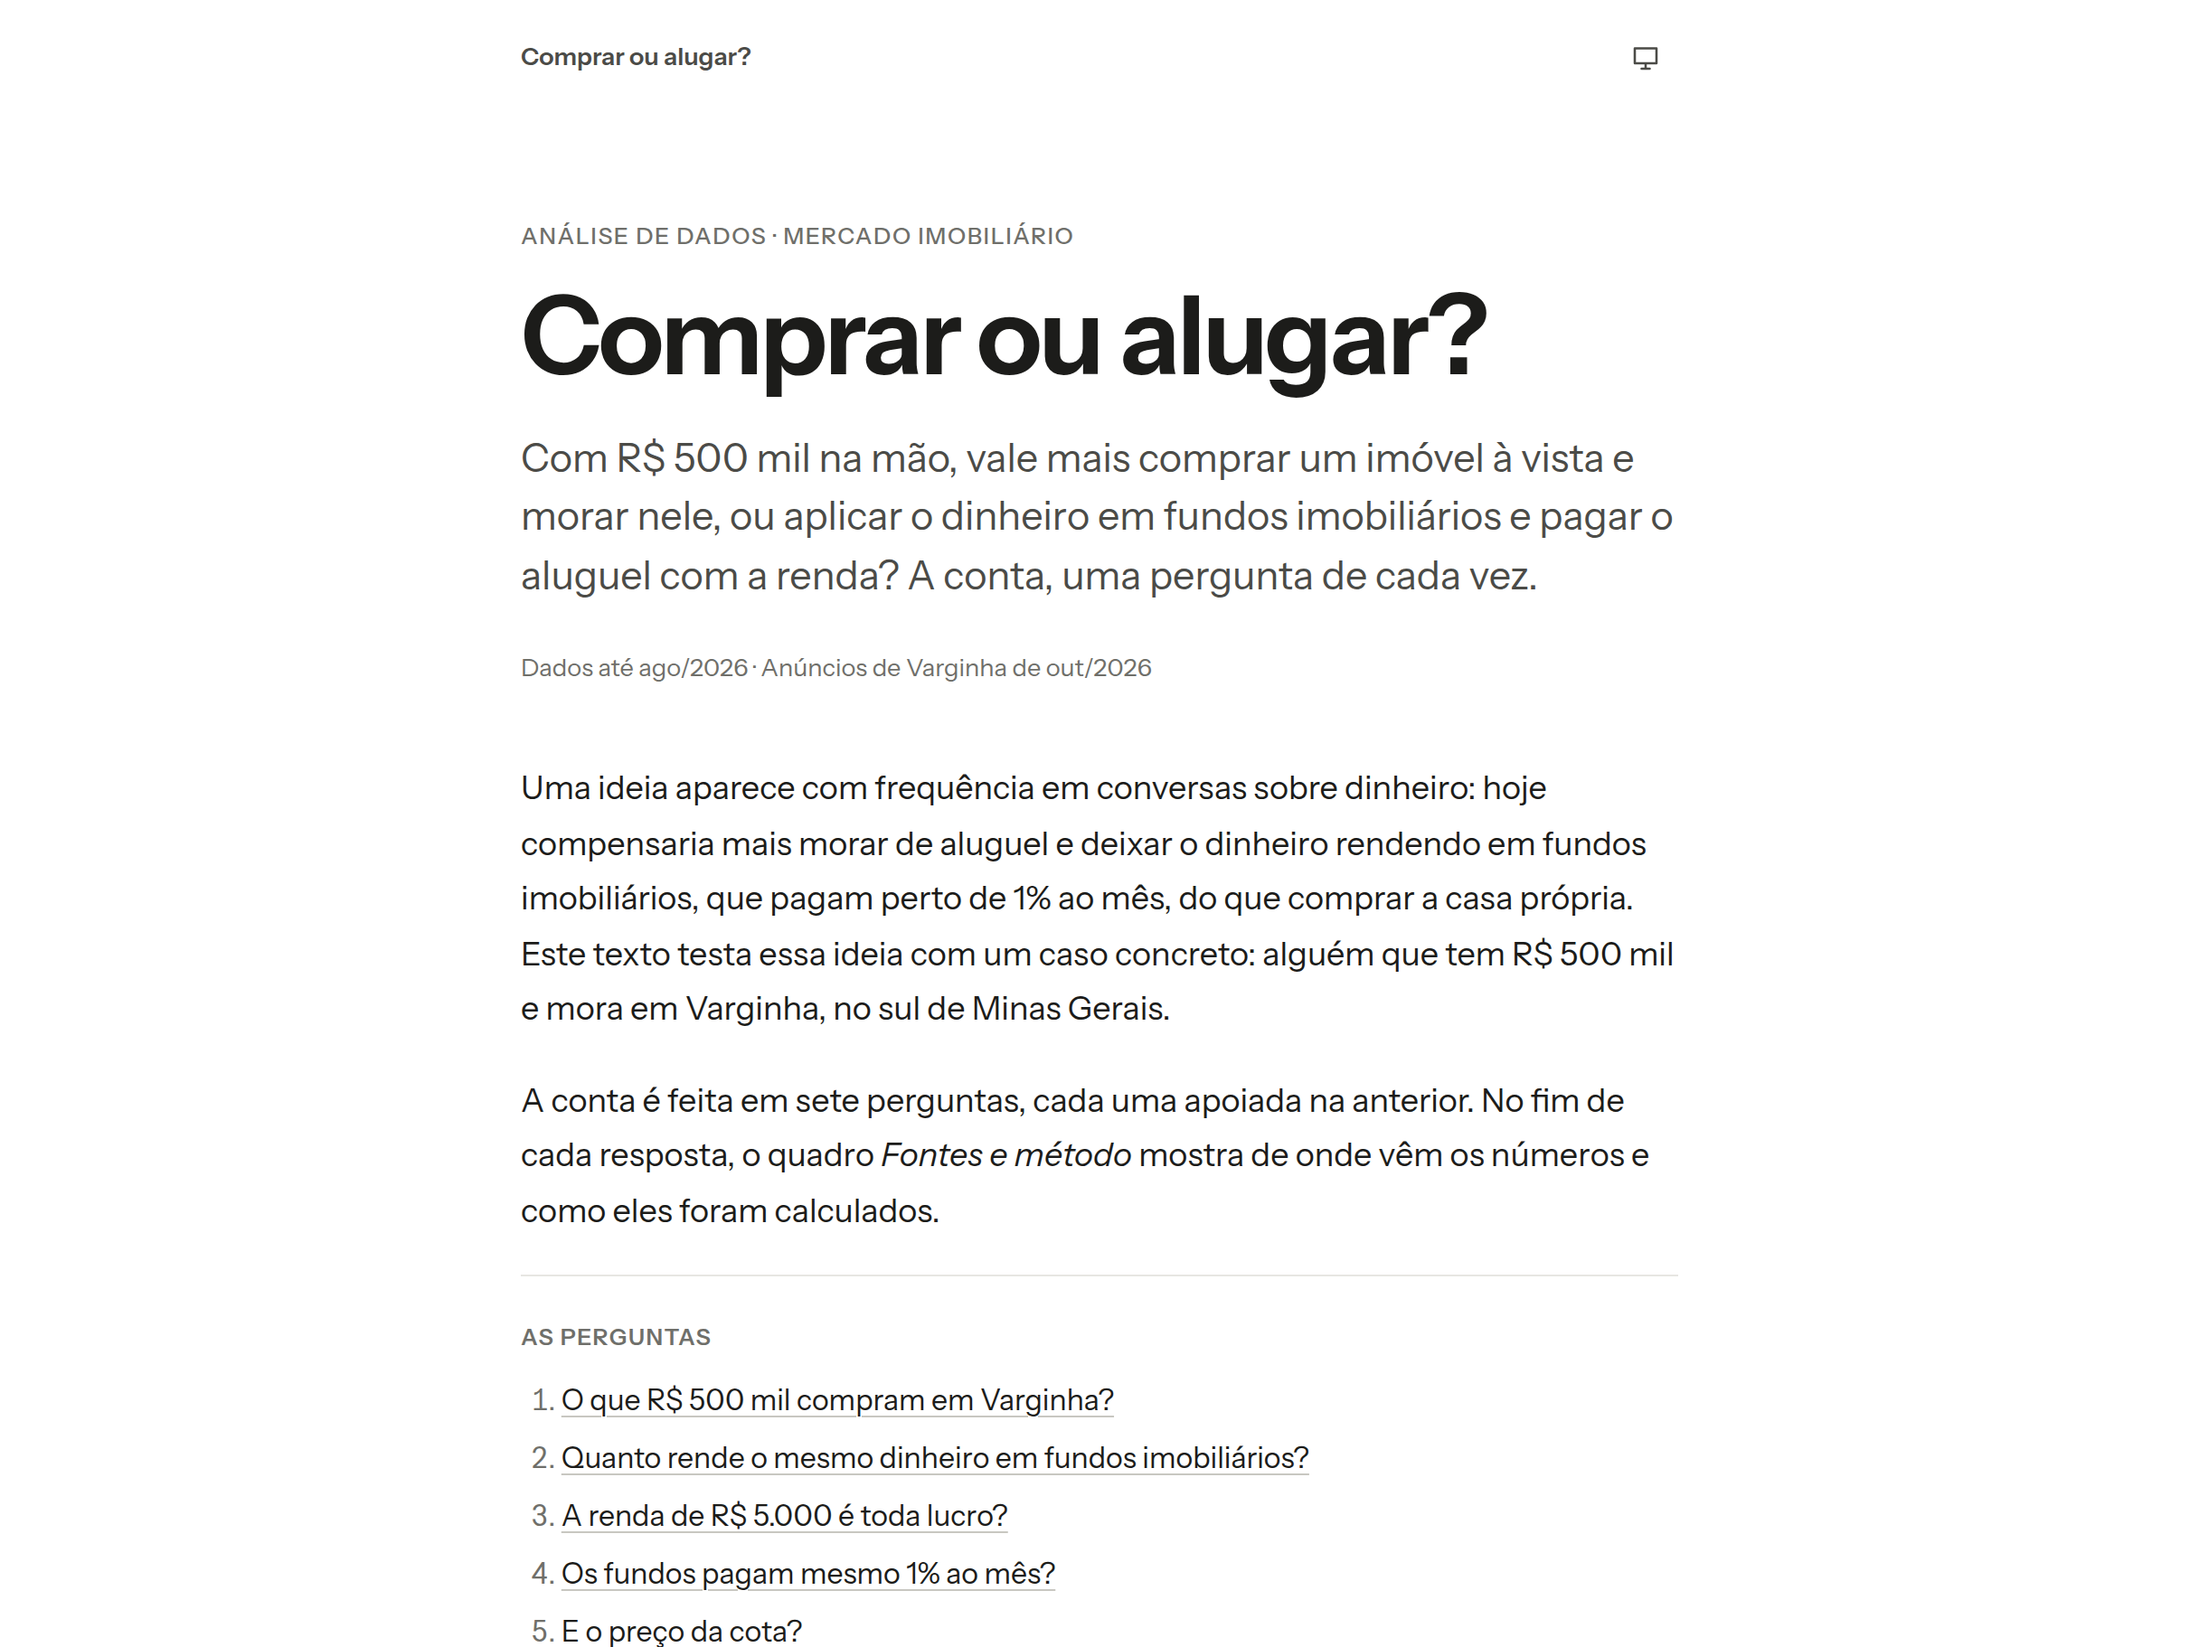
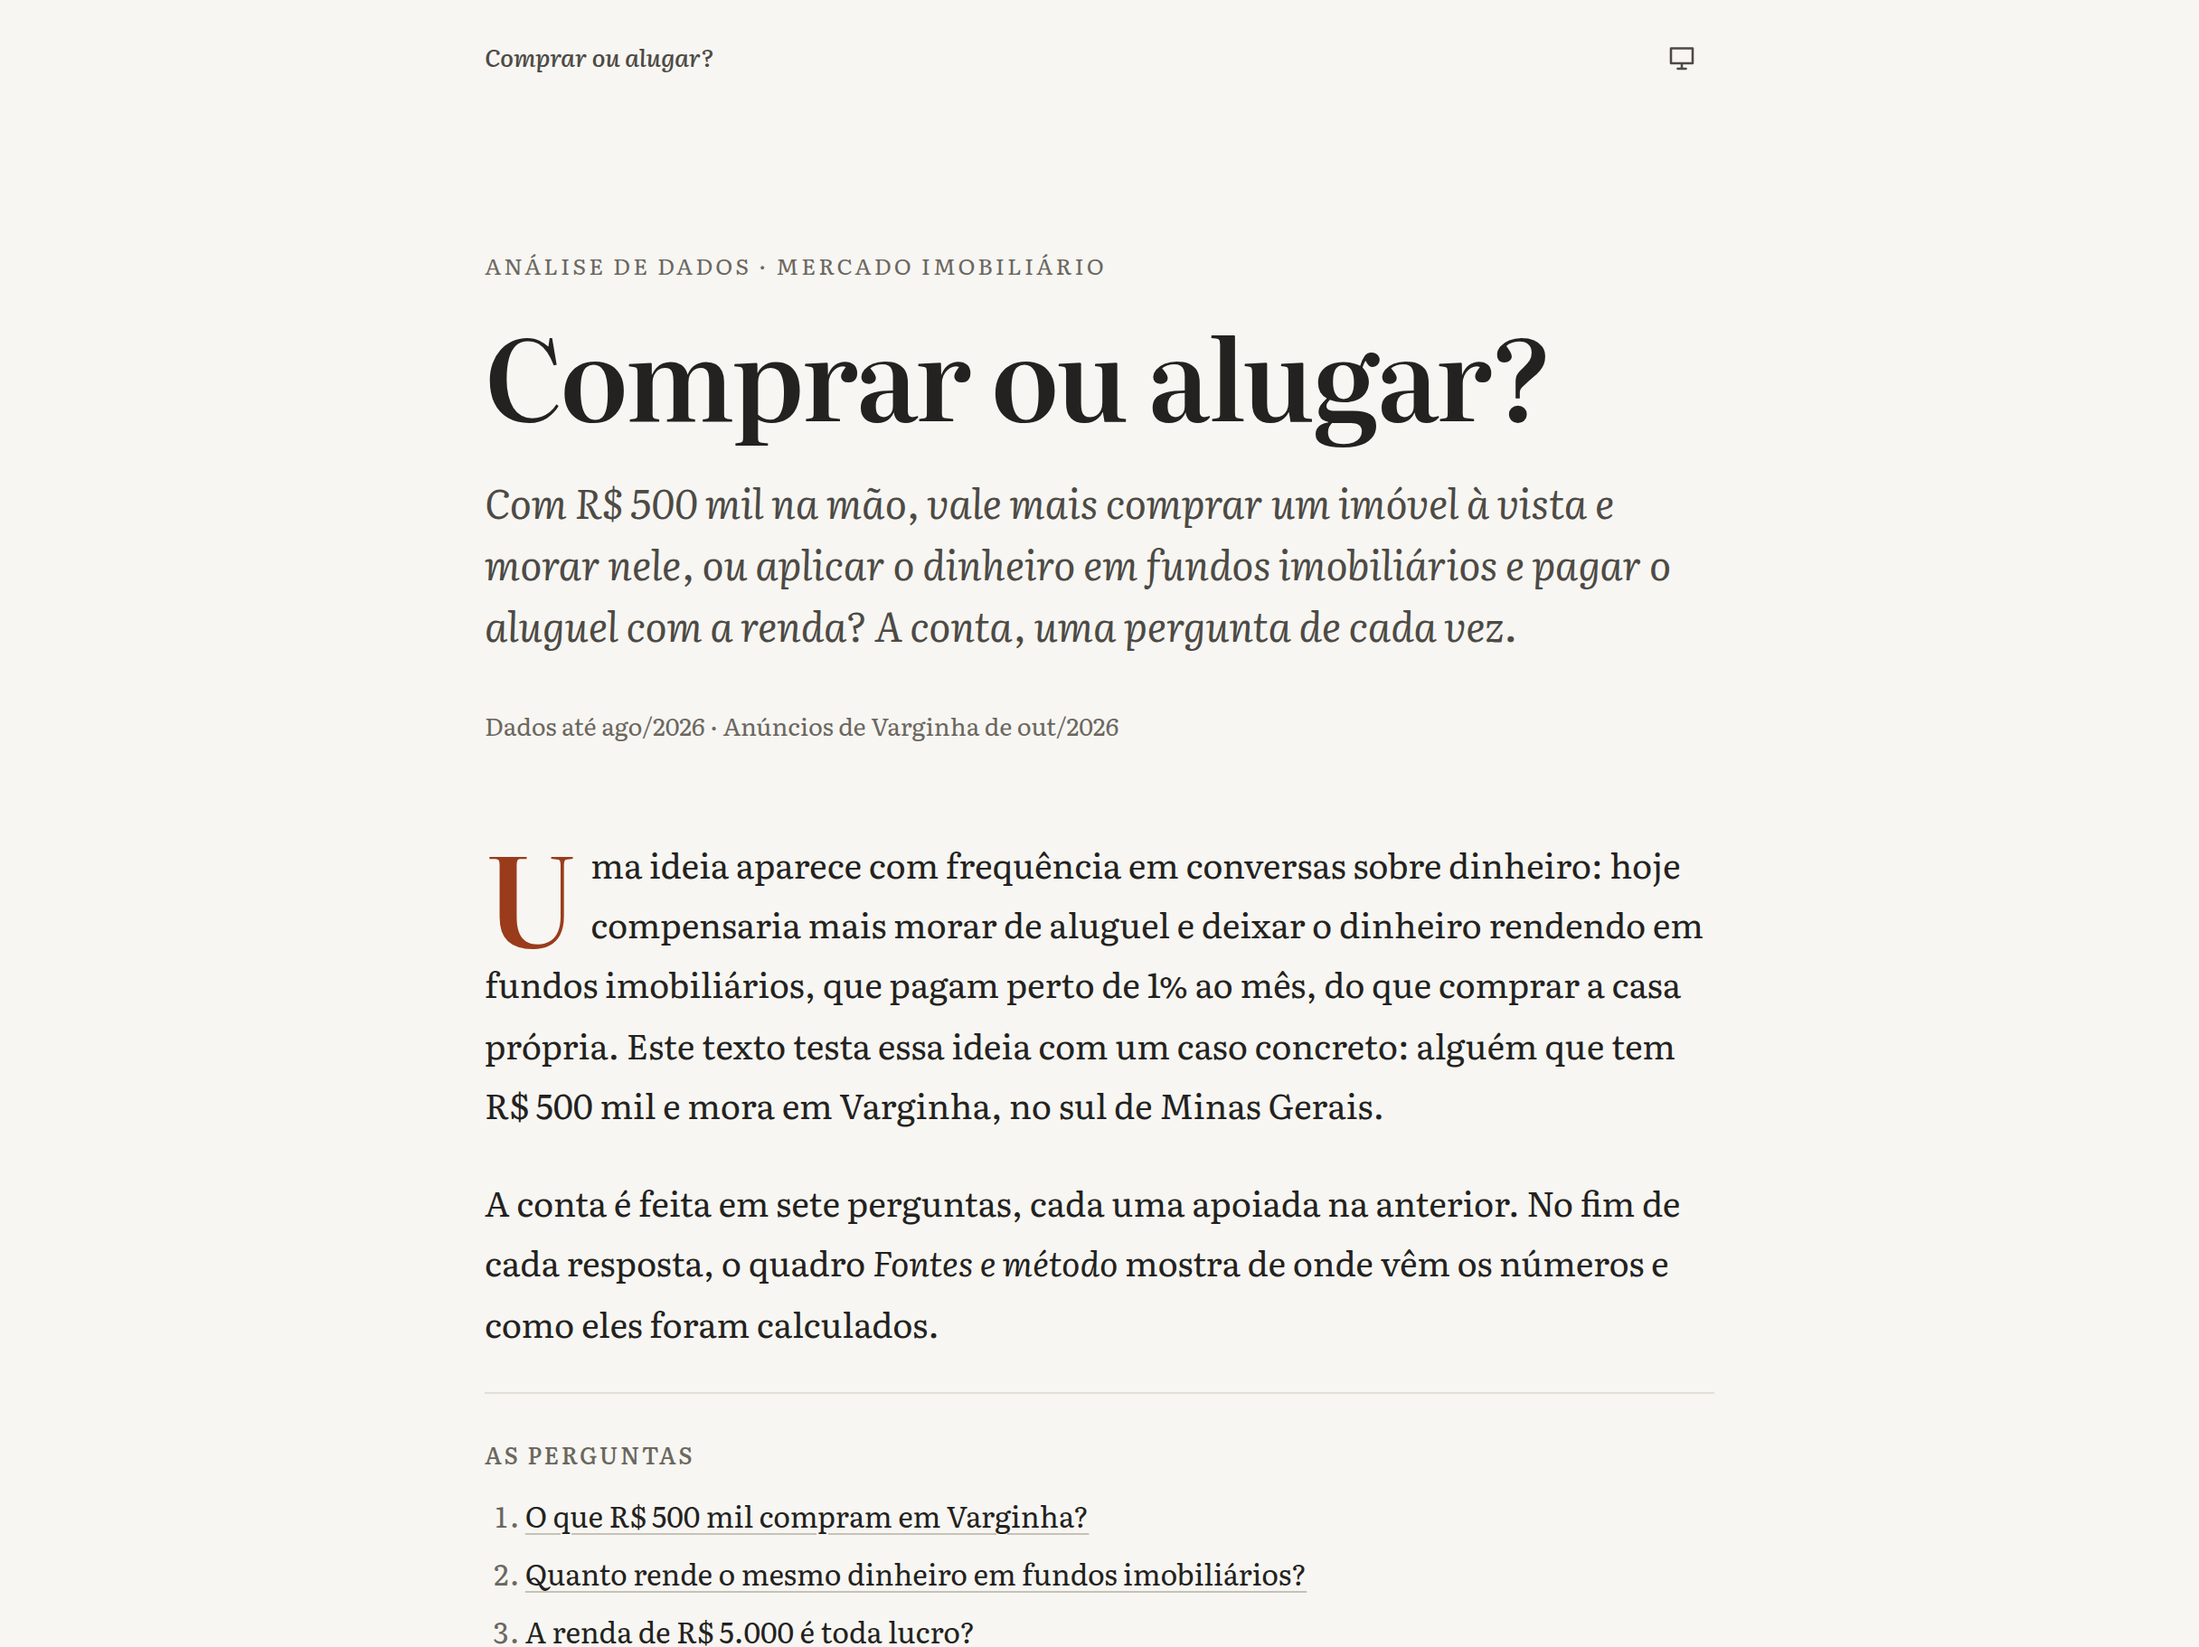
Aplica o desenho "livro" ao artigo, com fundo levemente escurecido
Entre seis versões da abertura, o Igor escolheu a "B" e pediu o fundo um
pouco mais escuro e o texto um pouco mais largo.

- uma família só, a serifa Literata (com tamanho óptico e algarismos de
  largura fixa), no lugar da Instrument Sans
- subtítulo em itálico, primeira letra grande no primeiro parágrafo,
  número da pergunta em itálico e detalhes em tom de tijolo
- fundo claro #f7f6f2 e escuro #171615; cores dos gráficos validadas
  para daltonismo nos dois
- coluna de texto de 680px para 720px
- campos do simulador presos à largura do painel, que passavam dela com
  a fonte nova
- CLAUDE.md e capturas do README atualizados

Claude-Session: https://claude.ai/code/session_01QdopxLRuX8CaTnJjxbJBTM

Changed region(s): [[0.2188, 0.1229, 0.7812, 1.0], [0.2188, 0.0307, 0.3438, 0.0615]]

diff --git a/site/src/index.css b/site/src/index.css
@@ -1,72 +1,74 @@
 /* ---------- Cores ---------- */
-/* Minimalista: fundo liso, uma família de letras, cor só nos gráficos e nos links.
-   As cores das séries passaram no validador de daltonismo sobre os dois fundos;
-   o tema escuro usa passos próprios das mesmas cores, não uma inversão. */
+/* Um livro na tela: fundo quase branco, serifa feita para leitura longa, cor só nos
+   gráficos, nos links e nos detalhes em tom de tijolo. As cores das séries passaram
+   no validador de daltonismo sobre os dois fundos; o tema escuro usa passos próprios
+   das mesmas cores, não uma inversão. */
 :root {
-  --fundo: #ffffff;
-  --superficie: #f5f5f3;
-  --texto: #1c1c1a;
-  --texto-2: #4b4b47;
-  --suave: #6f6f6a;
-  --fio: #e7e6e2;
-  --grade: #eeede9;
-  --eixo: #c8c7c1;
-  --destaque: #1f5fbf;
+  --fundo: #f7f6f2;
+  --superficie: #eeece6;
+  --texto: #232220;
+  --texto-2: #4d4a45;
+  --suave: #6b675f;
+  --fio: #e2dfd7;
+  --grade: #e9e6df;
+  --eixo: #c6c2b8;
+  --destaque: #9a3b1c;
   --serie-1: #256abf;
   --serie-2: #d95926;
   --serie-3: #199e70;
   --serie-4: #c98500;
-  --contexto: #b0afa9;
+  --contexto: #b0aca3;
   --div-azul: #256abf;
   --div-vermelho: #e34948;
-  --div-neutro: #ecebe8;
+  --div-neutro: #e9e6df;
   --sombra: rgb(0 0 0 / 0.12);
-  --fonte: 'Instrument Sans Variable', system-ui, -apple-system, 'Segoe UI', sans-serif;
+  --fonte: 'Literata Variable', Georgia, 'Times New Roman', serif;
+  --largura: 720px;
   color-scheme: light;
 }
 
 @media (prefers-color-scheme: dark) {
   :root:not([data-theme='light']) {
-    --fundo: #151514;
-    --superficie: #1e1e1c;
-    --texto: #ecebe7;
-    --texto-2: #c2c1bb;
-    --suave: #92918b;
-    --fio: #2d2d2a;
-    --grade: #262624;
-    --eixo: #4b4a46;
-    --destaque: #7ea8f5;
+    --fundo: #171615;
+    --superficie: #201f1d;
+    --texto: #ebe7df;
+    --texto-2: #c9c4ba;
+    --suave: #9a958b;
+    --fio: #2f2d29;
+    --grade: #282624;
+    --eixo: #4c4943;
+    --destaque: #e5a07f;
     --serie-1: #3987e5;
     --serie-2: #d95926;
     --serie-3: #199e70;
     --serie-4: #c98500;
-    --contexto: #5f5e59;
+    --contexto: #5f5b54;
     --div-azul: #3987e5;
     --div-vermelho: #e66767;
-    --div-neutro: #2c2c2a;
+    --div-neutro: #2d2b28;
     --sombra: rgb(0 0 0 / 0.5);
     color-scheme: dark;
   }
 }
 
 :root[data-theme='dark'] {
-  --fundo: #151514;
-  --superficie: #1e1e1c;
-  --texto: #ecebe7;
-  --texto-2: #c2c1bb;
-  --suave: #92918b;
-  --fio: #2d2d2a;
-  --grade: #262624;
-  --eixo: #4b4a46;
-  --destaque: #7ea8f5;
+  --fundo: #171615;
+  --superficie: #201f1d;
+  --texto: #ebe7df;
+  --texto-2: #c9c4ba;
+  --suave: #9a958b;
+  --fio: #2f2d29;
+  --grade: #282624;
+  --eixo: #4c4943;
+  --destaque: #e5a07f;
   --serie-1: #3987e5;
   --serie-2: #d95926;
   --serie-3: #199e70;
   --serie-4: #c98500;
-  --contexto: #5f5e59;
+  --contexto: #5f5b54;
   --div-azul: #3987e5;
   --div-vermelho: #e66767;
-  --div-neutro: #2c2c2a;
+  --div-neutro: #2d2b28;
   --sombra: rgb(0 0 0 / 0.5);
   color-scheme: dark;
 }
@@ -91,8 +93,9 @@ body {
   background: var(--fundo);
   color: var(--texto);
   font-family: var(--fonte);
-  font-size: 18px;
-  line-height: 1.7;
+  font-size: 19px;
+  line-height: 1.75;
+  font-optical-sizing: auto;
   -webkit-font-smoothing: antialiased;
 }
 
@@ -146,7 +149,7 @@ strong {
   align-items: center;
   justify-content: space-between;
   gap: 16px;
-  max-width: 680px;
+  max-width: var(--largura);
   margin: 0 auto;
   padding: 14px 20px;
   font-size: 0.85rem;
@@ -154,7 +157,8 @@ strong {
 
 .topo a {
   color: var(--texto-2);
-  font-weight: 600;
+  font-style: italic;
+  font-weight: 500;
   text-decoration: none;
 }
 
@@ -178,7 +182,7 @@ strong {
 
 /* ---------- Artigo: uma coluna de leitura ---------- */
 .artigo {
-  max-width: 680px;
+  max-width: var(--largura);
   margin: 0 auto;
   padding: 0 20px 96px;
 }
@@ -197,37 +201,47 @@ strong {
 
 /* ---------- Abertura ---------- */
 .abertura {
-  padding: 56px 0 40px;
+  padding: 72px 0 48px;
 }
 
 .sobretitulo {
-  font-size: 0.8rem;
-  font-weight: 500;
-  letter-spacing: 0.06em;
+  font-size: 0.78rem;
+  letter-spacing: 0.12em;
   text-transform: uppercase;
   color: var(--suave);
 }
 
 h1 {
-  margin: 12px 0 20px;
-  font-size: clamp(2.5rem, 7vw, 3.75rem);
-  font-weight: 650;
+  margin: 16px 0 22px;
+  font-size: clamp(2.6rem, 7vw, 3.9rem);
+  font-weight: 600;
   line-height: 1.05;
-  letter-spacing: -0.03em;
+  letter-spacing: -0.02em;
   text-wrap: balance;
 }
 
 .subtitulo {
-  font-size: clamp(1.15rem, 2.4vw, 1.35rem);
+  font-size: clamp(1.15rem, 2.4vw, 1.4rem);
+  font-style: italic;
   line-height: 1.5;
   color: var(--texto-2);
   text-wrap: pretty;
 }
 
 .assinatura {
-  margin-top: 24px;
+  margin-top: 28px;
   font-size: 0.85rem;
   color: var(--suave);
+}
+
+/* A primeira letra do artigo, grande e na cor de destaque, como num livro. */
+.texto > p:first-child::first-letter {
+  float: left;
+  margin: 0.08em 0.1em 0 0;
+  font-size: 3.6em;
+  font-weight: 600;
+  line-height: 0.8;
+  color: var(--destaque);
 }
 
 /* ---------- Texto corrido ---------- */
@@ -251,8 +265,8 @@ h1 {
 .sumario h2 {
   margin-bottom: 12px;
   font-size: 0.8rem;
-  font-weight: 600;
-  letter-spacing: 0.06em;
+  font-weight: 500;
+  letter-spacing: 0.1em;
   text-transform: uppercase;
   color: var(--suave);
 }
@@ -287,26 +301,25 @@ h1 {
 /* ---------- Perguntas e seções ---------- */
 .pergunta,
 .secao {
-  margin-top: 88px;
+  margin-top: 96px;
 }
 
 .pergunta h2,
 .secao h2 {
   margin-bottom: 20px;
-  font-size: clamp(1.45rem, 3.4vw, 1.75rem);
-  font-weight: 650;
+  font-size: clamp(1.5rem, 3.4vw, 1.8rem);
+  font-weight: 600;
   line-height: 1.2;
-  letter-spacing: -0.02em;
+  letter-spacing: -0.01em;
   text-wrap: balance;
 }
 
 .pergunta h2 .numero {
   display: block;
   margin-bottom: 8px;
-  font-size: 0.8rem;
-  font-weight: 600;
-  letter-spacing: 0.06em;
-  text-transform: uppercase;
+  font-size: 0.95rem;
+  font-style: italic;
+  font-weight: 400;
   color: var(--destaque);
 }
 
@@ -384,8 +397,8 @@ h1 {
 .links h3 {
   margin-bottom: 6px;
   font-size: 0.75rem;
-  font-weight: 600;
-  letter-spacing: 0.06em;
+  font-weight: 500;
+  letter-spacing: 0.1em;
   text-transform: uppercase;
   color: var(--suave);
 }
@@ -702,8 +715,8 @@ tbody th {
 .conta h4 {
   margin-bottom: 4px;
   font-size: 0.8rem;
-  font-weight: 600;
-  letter-spacing: 0.06em;
+  font-weight: 500;
+  letter-spacing: 0.1em;
   text-transform: uppercase;
   color: var(--suave);
 }
@@ -817,8 +830,10 @@ tbody th {
   border-radius: 10px;
 }
 
+/* A coluna do painel não cresce com a largura natural dos campos de número. */
 fieldset {
   display: grid;
+  grid-template-columns: minmax(0, 1fr);
   gap: 12px;
   min-width: 0;
   margin: 0;
@@ -830,8 +845,8 @@ legend {
   margin-bottom: 8px;
   padding: 0;
   font-size: 0.75rem;
-  font-weight: 600;
-  letter-spacing: 0.06em;
+  font-weight: 500;
+  letter-spacing: 0.1em;
   text-transform: uppercase;
   color: var(--suave);
 }
@@ -888,6 +903,7 @@ fieldset + fieldset,
 
 .com-unidade input {
   flex: 1;
+  width: 100%;
   min-width: 0;
   padding: 0;
   border: 0;
@@ -977,7 +993,7 @@ input[type='range'] {
 .numero-principal {
   margin: 4px 0 6px;
   font-size: clamp(2.2rem, 5.5vw, 3.2rem);
-  font-weight: 650;
+  font-weight: 600;
   line-height: 1.05;
   letter-spacing: -0.025em;
 }
@@ -1001,7 +1017,7 @@ input[type='range'] {
 
 .indicadores dd {
   font-size: 1.6rem;
-  font-weight: 650;
+  font-weight: 600;
   line-height: 1.25;
   letter-spacing: -0.015em;
   font-variant-numeric: tabular-nums;

diff --git a/site/src/main.tsx b/site/src/main.tsx
@@ -1,8 +1,9 @@
 import { StrictMode } from 'react'
 import { createRoot } from 'react-dom/client'
-// Uma família só, em todo o artigo. Ela tem algarismos de largura fixa para as tabelas.
-import '@fontsource-variable/instrument-sans'
-import '@fontsource-variable/instrument-sans/wght-italic.css'
+// Uma família só, em todo o artigo: uma serifa feita para leitura longa, com o eixo de tamanho óptico
+// (o desenho se ajusta do título às notas) e algarismos de largura fixa para as tabelas.
+import '@fontsource-variable/literata/opsz.css'
+import '@fontsource-variable/literata/opsz-italic.css'
 import './index.css'
 import App from './App.tsx'
 

diff --git a/CLAUDE.md b/CLAUDE.md
@@ -10,9 +10,11 @@ resume os achados e o METODOLOGIA.md explica premissas e limitações. Tudo em p
 
 - **Nada é publicado sem a confirmação explícita dele.** Tornar o repositório público, fazer deploy na Cloudflare
   ou criar workflow de deploy só depois de ele testar e dizer que pode. O repositório nasceu privado por isso.
-- **A página é um artigo minimalista** (pedido dele em 04/10/2026): uma coluna de leitura, tema claro e escuro
-  (segue o sistema, com botão para trocar), uma família de letras só (Instrument Sans), sem molduras, cor só nos
-  gráficos e nos links. O texto avança em **sete perguntas encadeadas**, para o leitor ir entendendo aos poucos;
+- **A página é um artigo com cara de livro** (desenho "B", escolhido por ele em 04/10/2026 entre seis versões da
+  abertura): uma coluna de leitura de 720 px, tema claro (fundo `#f7f6f2`, um pouco mais escuro que o branco, a
+  pedido dele) e escuro (segue o sistema, com botão para trocar), uma família de letras só, a serifa Literata,
+  subtítulo em itálico, primeira letra grande no primeiro parágrafo, sem molduras, e cor só nos gráficos, nos links
+  e nos detalhes em tom de tijolo. O texto avança em **sete perguntas encadeadas**, para o leitor ir entendendo aos poucos;
   ele não quer "respostas curtas" soltas no topo. **Cada pergunta termina com "Fontes e método"**, com links para os
   dados e para o notebook ou código da análise (`site/src/fontes.ts`; os links do repositório apontam para `main`).
   Antes disso a página teve um visual de jornal e um de planta baixa, que ele trocou; ele também já rejeitou um
@@ -28,7 +30,8 @@ resume os achados e o METODOLOGIA.md explica premissas e limitações. Tudo em p
   (`06_a_vista`) faz a mesma conta. Os notebooks 1 a 5 continuam com a análise de financiamento.
 - O backtest e o Monte Carlo saíram da página (e do `dados.json`), mas continuam nos notebooks 4 e 5.
 - O Igor roda a página localmente (`npm run dev`) e ainda não leu o artigo novo; espere pedidos de mudança de texto
-  e de layout. A versão de planta baixa ficou no commit `b73da6c`, caso ele queira voltar a ela.
+  e de layout. A versão de planta baixa ficou no commit `b73da6c` e a primeira versão do artigo, em
+  Instrument Sans, no `6dbee82`, caso ele queira voltar a alguma.
 - Ele vê a página pelo celular num link privado do claude.ai (Artifact), publicado a partir de um build com
   `npx vite build --base ./`. Esse link é só para ele; não é o deploy público.
 - A amostra de Varginha (`data/manual/varginha_anuncios.csv`, 42 anúncios) foi coletada de duas páginas públicas de
@@ -66,8 +69,8 @@ restrita esses downloads podem falhar, e aí vale usar o que já está no reposi
   outubro de 2026 e precisa ser revisto se os dados forem atualizados.
 - **Notebooks são gerados executados.** Depois de mudar código usado por eles, rode
   `uv run jupyter nbconvert --to notebook --execute --inplace notebooks/*.ipynb`.
-- **Cores dos gráficos.** As séries usam uma paleta validada para daltonismo sobre os fundos claro (`#ffffff`) e
-  escuro (`#151514`) da página, com passos próprios em cada tema (variáveis `--serie-*` em `site/src/index.css`;
+- **Cores dos gráficos.** As séries usam uma paleta validada para daltonismo sobre os fundos claro (`#f7f6f2`) e
+  escuro (`#171615`) da página, com passos próprios em cada tema (variáveis `--serie-*` em `site/src/index.css`;
   nos notebooks, `estilo.py`). Cada cidade e cada ativo tem
   sempre a mesma cor. Não troque cores no olho.
 - Taxas em fração (`0.005` = 0,5%) e datas mensais no primeiro dia do mês, em todo o código Python.
